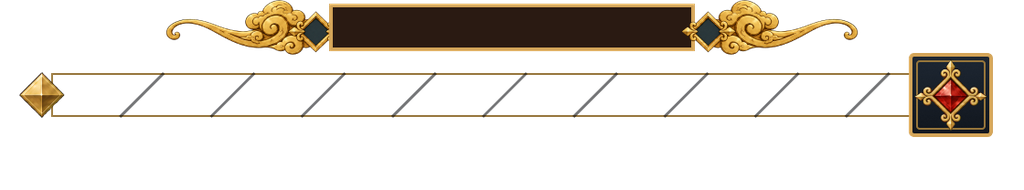
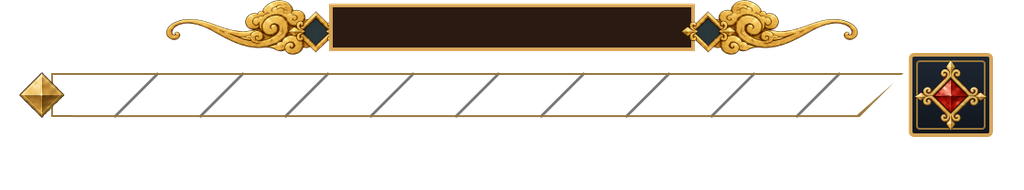
End the boss bar's trough before the ruby socket
The socket added to hide the plate's slant also covered the trough's last ~5%,
so a boss's first hits didn't show. The trough, its rim and its cuts now end
at x 494 (bottom 470) of the 560x104 box, and Bar, Pips and Cracks match, so
the socket caps the bar instead of covering it. The socket still hides the
plate's whole slant (corners 4.1 and 4.8 px inside its opaque area).

Measured in edit view: at 100% the fill's top-right corner is at x 494, 3.5 px
left of the socket's opaque edge (497.5); a 1% drop moves it 4.66 px at 560
wide and 3.09 px at 371; the bar sits on the art's trough (27.3..494), and the
name stays centred (280, 15).

The Figma sheet still has the old trough: the plan's Figma MCP calls ran out,
so the change is applied to the matted export by tools/boss_trough_patch.py
(flat vector shapes only, no generated art). Update the sheet and drop the
step when calls are available.

Test build: fight a boss and check the first hits drain the bar visibly from
full, on PC and a phone.

diff --git a/tools/boss_trough_patch.py b/tools/boss_trough_patch.py
@@ -1,0 +1,78 @@
+"""Shorten the boss bar's trough so it ends left of the ruby socket.
+
+The Figma sheet `Export / Roblox Boss Bar` (node 35:177) still has the first trough
+(x 28..524 of the 560x104 box), whose last ~5% ran under the socket, so the first
+hits on a boss didn't show. The fix (2026-10-23) was made after the plan's Figma MCP
+calls ran out, so it is applied here to the matted 2x sheet instead: the trough, its
+rim and its slanted cuts end at x 494 (bottom 470), and the plate's body colour
+fills where the old trough was. These are the sheet's own vector shapes (flat
+colours and 1 px lines), not generated ornaments. Once the sheet itself is updated
+(Trough and Rim to 466 wide, cuts every 46.6), export it with figma_boss_export.py
+and drop this step.
+
+    uv run --with pillow --with numpy python -c "import sys; sys.path.insert(0, 'tools'); from figma_boss_export import matte; matte('light.png', 'dark.png').save('sheet2x.png')"
+    uv run --with pillow --with numpy python tools/boss_trough_patch.py sheet2x.png art/ui/figma/boss
+"""
+import sys
+import numpy as np
+from PIL import Image, ImageDraw
+S = sys.argv[1]; OUT = sys.argv[2]
+sheet = np.asarray(Image.open(S)).astype(np.float64)
+K = 2  # sheet scale
+SS = 8
+OLD = [(28, 40), (524, 40), (500, 64), (28, 64)]
+TW = 466
+NEW = [(28, 40), (28 + TW, 40), (28 + TW - 24, 64), (28, 64)]
+
+def mask(poly, ox, oy, shape):
+    h, w = shape
+    m = Image.new("L", (w * SS, h * SS), 0)
+    ImageDraw.Draw(m).polygon([((ox + x) * K * SS, (oy + y) * K * SS) for x, y in poly], fill=255)
+    return np.asarray(m.resize((w, h), Image.BOX)).astype(np.float64) / 255
+
+def lines(segs, width, ox, oy, shape):
+    h, w = shape
+    m = Image.new("L", (w * SS, h * SS), 0)
+    d = ImageDraw.Draw(m)
+    for (x0, y0), (x1, y1) in segs:
+        d.line([((ox + x0) * K * SS, (oy + y0) * K * SS), ((ox + x1) * K * SS, (oy + y1) * K * SS)], fill=255, width=int(width * K * SS))
+    return np.asarray(m.resize((w, h), Image.BOX)).astype(np.float64) / 255
+
+def inset(poly, t):
+    (x0, y0), (x1, _), (x2, y2), _ = poly
+    s = t * 2 ** 0.5  # a 45-degree edge moves sideways by t*sqrt(2)
+    return [(x0 + t, y0 + t), (x1 - s + t, y0 + t), (x2 - s, y2 - t), (x0 + t, y2 - t)]
+
+shape = sheet.shape[:2]
+# --- plate (sheet 40,20): body colour where the old trough no longer is
+ox, oy = 40, 20
+old = mask(inset(OLD, -0.75), ox, oy, shape); new = mask(NEW, ox, oy, shape)
+xs1 = np.arange(shape[1]) / K - ox
+gone = np.clip(old - new, 0, 1) * (xs1 >= 400)[None, :]
+col = sheet[:, int((ox + 25.5) * K)]  # body column, vertical gradient
+body = np.repeat(col[:, None, :], shape[1], axis=1)
+g = gone[..., None]
+sheet = sheet * (1 - g) + body * g
+# --- mount (sheet 40,150): clear the old rim and cuts right of the gold cap, left of the socket
+ox, oy = 40, 150
+xs = np.arange(shape[1]) / K - ox
+band = ((xs >= 40) & (xs <= 496.5)).astype(np.float64)[None, :]
+old_m = mask(inset(OLD, -0.6), ox, oy, shape) * band
+a = sheet[..., 3] / 255 * (1 - old_m)
+# new rim: 1px inside stroke
+rim = np.clip(mask(NEW, ox, oy, shape) - mask(inset(NEW, 1), ox, oy, shape), 0, 1) * band
+# new cuts every tenth, 45 degrees, 1.5px, near black at 0.55
+cuts = lines([((28 + TW * i / 10 - 12, 64), (28 + TW * i / 10 + 12, 40)) for i in range(1, 10)], 1.5, ox, oy, shape)
+def over(rgb, alpha, src_rgb, src_a):
+    out_a = src_a + alpha * (1 - src_a)
+    out = (src_rgb * src_a[..., None] + rgb * (alpha * (1 - src_a))[..., None]) / np.maximum(out_a, 1e-6)[..., None]
+    return out, out_a
+rgb = sheet[..., :3].copy()
+rgb, a = over(rgb, a, np.array([5, 7, 10.0]), cuts * 0.55 * band)
+rgb, a = over(rgb, a, np.array([0x97, 0x76, 0x3b], dtype=float), rim)
+sheet[..., :3] = rgb
+sheet[..., 3] = a * 255
+img = Image.fromarray(np.clip(sheet, 0, 255).round().astype(np.uint8), "RGBA")
+for name, (x, y, w, h) in {"bossbar_plate": (40, 20, 560, 104), "bossbar_mount": (40, 150, 560, 104)}.items():
+    img.crop((x * K, y * K, (x + w) * K, (y + h) * K)).resize((1024, 190), Image.LANCZOS).save(f"{OUT}/{name}.png")
+    print("wrote", name)

diff --git a/docs/ui/boss-bars.md b/docs/ui/boss-bars.md
@@ -19,9 +19,11 @@ screen's width, laid out on a 560x104 box (`UIAspectRatioConstraint` 5.385, `Max
 - the bar: a dark navy plate with a thin gilt rim (the vitals mount's body), a trough
   whose right end is cut at 45 degrees, slanted segment cuts every tenth, a small gold
   diamond cap on the left end, and on the right a square gold-rimmed socket holding the
-  kit's ruby star. The socket hides the whole slant (user, 2026-10-23: the ruby alone left
-  the diagonal showing); measured in the art, the slant's corners sit 2.1 to 11.3 px (at
-  1x) inside its opaque area;
+  kit's ruby star. The socket hides the plate's whole slant (user, 2026-10-23: the ruby
+  alone left the diagonal showing; its corners sit 4.1 and 4.8 px at 1x inside the
+  socket's opaque area, which starts at x 497.5). The trough ends left of it (x 494 at the
+  top, 470 at the bottom), so the whole fill shows: at 100% its leading edge is 3.5 px
+  clear of the socket, and a 1% drop is 4.7 px on PC and 3.1 px on a 371 px phone bar;
 - under the bar: the title, then the omen, on one centred row (`TitleLabel`, `OmenLabel`),
   and the realm right-aligned under the bar's end (`RealmLabel`).
 Phase thresholds are gold studs (`gold_stud` cut) on the plate's top rim (`Pips`, made at
@@ -33,9 +35,9 @@ bar height / 64.
 
 Instance tree: `BossBar > Body > Plate` (behind), `Bar` (Trail, Fill > Sheen, Flare),
 `Mount` (over the bar), `Cracks`, `Pips`, the four labels. Plate and Mount fill the box
-(Stretch), so moving the bar means moving it in the Figma sheet too. Bar window, measured
-in `bossbar_plate.png`: x 27.3..524.5, y 39.4..64.0 of 560x104; `Bar` sits at 28..524 x
-40..64.
+(Stretch), so moving the bar means moving it in the art too. Bar window, measured in
+`bossbar_plate.png`: x 27.3..494, y 39.4..64.0 of 560x104; `Bar`, `Pips` and `Cracks` sit
+at 28..494 x 40..64.
 
 ## Art
 Exported from the Figma UI kit (file `9u6RPHLelUJF6aABm6mY7y`, Example page): the sheet
@@ -45,7 +47,11 @@ plaque's plate, `gold_stud`, `ruby_stud`). `Boss Bar / preview` (node 35:194) sh
 bosses. To re-export: export the sheet at scale 2 twice with `download_assets` (as is, and
 with the sheet's fill set to black; set it back after), then
 `uv run --with pillow --with numpy python tools/figma_boss_export.py light.png dark.png`
-(writes `art/ui/figma/boss/bossbar_plate.png`, `bossbar_mount.png`, 1024x190). A changed
+(writes `art/ui/figma/boss/bossbar_plate.png`, `bossbar_mount.png`, 1024x190). The sheet
+still has the first, longer trough (to x 524, under the socket): the shorter one was made
+after the plan's Figma calls ran out, by `tools/boss_trough_patch.py` on the matted export
+(its docstring has the steps). Update the sheet's Trough, Rim and cuts to 466 wide and drop
+that step. A changed
 PNG needs a new upload; ids in `art/ui/assets.json` and `BossThemes.MOUNT`. The pip and
 crack are the kit cuts `art/ui/codex/cut/ornament_gold_stud.png` and
 `ornament_crack_split.png` (from `ui-assemble`).
